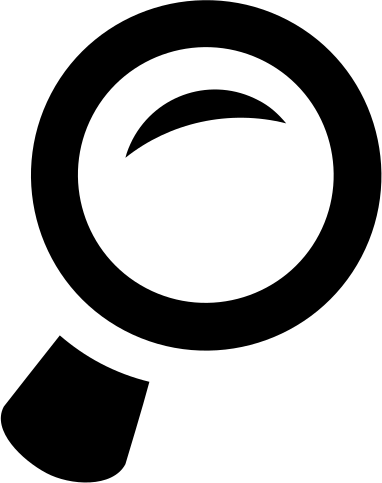
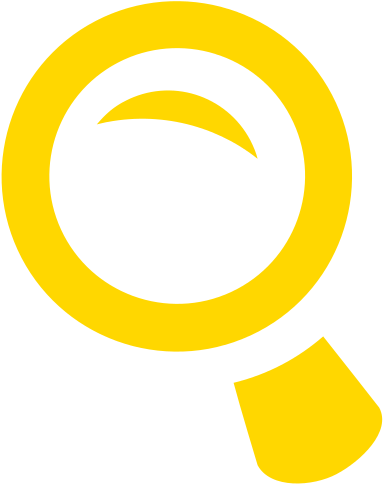
Stylize magnifying glass button

diff --git a/index.html b/index.html
@@ -36,7 +36,7 @@
                     <a href="javascript:void(0);" onclick="imageSwitchLeft(this)"><img class="button arrow-left" src="./images/buttons/arrow-left.png" alt=""></a>
                     <a href="javascript:void(0);" onclick="imageSwitchRight(this)"><img class="button arrow-right" src="./images/buttons/arrow-right.png" alt=""></a>
                     <input type="checkbox" id="toggle1" class="toggle">
-                    <a href="javascript:void(0);" onclick="glassSwitch(this)"><label for="toggle1"><img class="button" src="./images/buttons/glass.png" alt=""></label></a>
+                    <a href="javascript:void(0);" onclick="glassSwitch(this)"><label for="toggle1"><img class="button glass" src="./images/buttons/glass.png" alt=""></label></a>
                 </div>
                 <div class="text-block ">
                     <p class="year">Year: 1928</p>
@@ -56,7 +56,7 @@
                     <a href="javascript:void(0);" onclick="imageSwitchLeft(this)"><img class="button arrow-left" src="./images/buttons/arrow-left.png" alt=""></a>
                     <a href="javascript:void(0);" onclick="imageSwitchRight(this)"><img class="button arrow-right" src="./images/buttons/arrow-right.png" alt=""></a>
                     <input type="checkbox" id="toggle2" class="toggle">
-                    <a href="javascript:void(0);" onclick="glassSwitch(this)"><label for="toggle2"><img class="button" src="./images/buttons/glass.png" alt=""></label></a>
+                    <a href="javascript:void(0);" onclick="glassSwitch(this)"><label for="toggle2"><img class="button glass" src="./images/buttons/glass.png" alt=""></label></a>
                 </div>
                 <div class="text-block">
                     <p class="year">Year: 1925</p>
@@ -75,7 +75,7 @@
                     <a href="javascript:void(0);" onclick="imageSwitchLeft(this)"><img class="button arrow-left" src="./images/buttons/arrow-left.png" alt=""></a>
                     <a href="javascript:void(0);" onclick="imageSwitchRight(this)"><img class="button arrow-right" src="./images/buttons/arrow-right.png" alt=""></a>
                     <input type="checkbox" id="toggle3" class="toggle">
-                    <a href="javascript:void(0);" onclick="glassSwitch(this)"><label for="toggle3"><img class="button" src="./images/buttons/glass.png" alt=""></label></a>
+                    <a href="javascript:void(0);" onclick="glassSwitch(this)"><label for="toggle3"><img class="button glass" src="./images/buttons/glass.png" alt=""></label></a>
                 </div>
                 <div class="text-block">
                     <p class="year">Year: 1924</p>

diff --git a/style.scss b/style.scss
@@ -103,9 +103,13 @@ body {
     .buttons {
         margin: 0 auto;
         width: fit-content;
+        padding-left: 28.75px;
         .button {
             height: 30px;
             width: auto;
+        }
+        .glass {
+            margin-left: 5px;
         }
     }
     .text-block {

diff --git a/style.css b/style.css
@@ -124,11 +124,16 @@ body {
   width: -webkit-fit-content;
   width: -moz-fit-content;
   width: fit-content;
+  padding-left: 28.75px;
 }
 
 .item .buttons .button {
   height: 30px;
   width: auto;
+}
+
+.item .buttons .glass {
+  margin-left: 5px;
 }
 
 .item .text-block {
